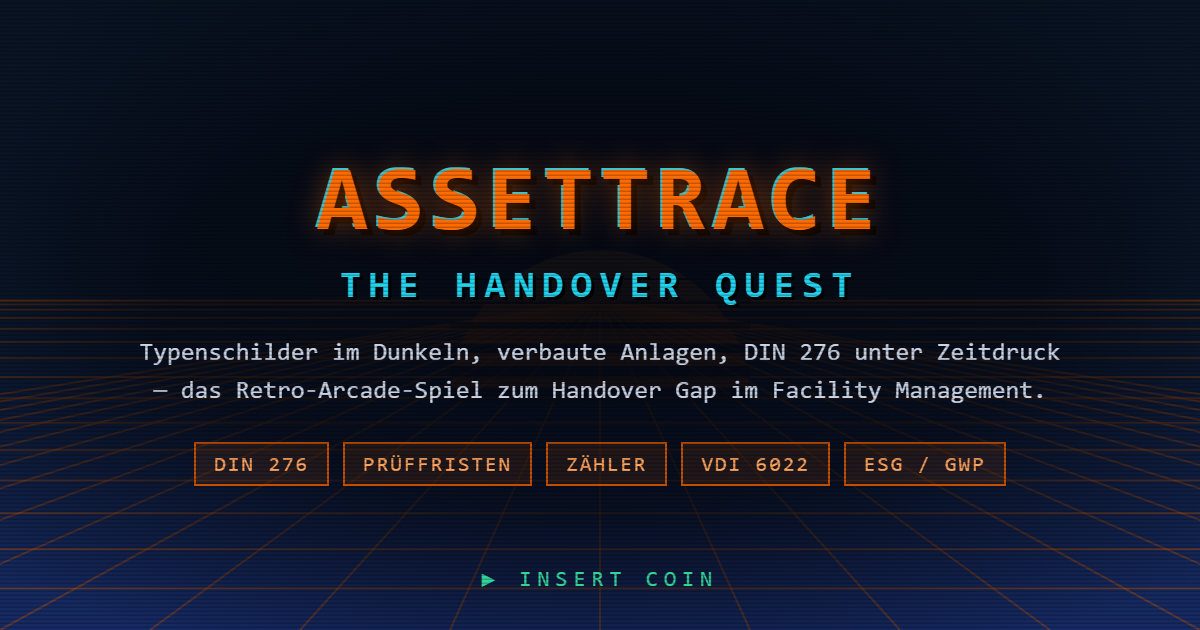
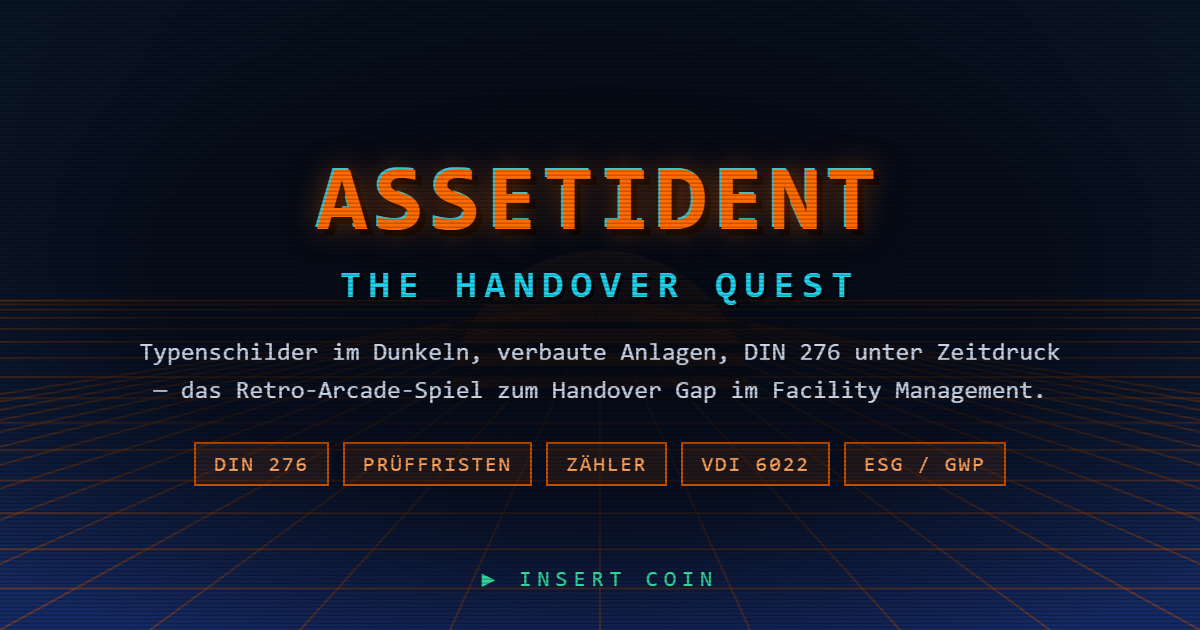
refactor: Marke durchgängig auf AssetIdent umstellen
Das Spiel hiess an jeder sichtbaren Stelle noch AssetTrace, das Repository
aber AssetIdent_Game. 75 Vorkommen in zehn Dateien angeglichen.

Umbenannt wurde alles, was Spieler oder Einbettende zu sehen bekommen:

- Titelbildschirm, Boss-Runde, Report und der CTA "ASSETIDENT LIVE ANSEHEN"
- Seitentitel, Meta-Beschreibung und die OpenGraph-/Twitter-Karte
- og-image.png neu gerendert — der Name steht dort als Grafik
- Docker: Image assetident/handover-quest, Service- und Containername

Und die öffentliche Schnittstelle, weil sie in README und embed.html
dokumentiert ist und Einbettende sie anfassen:

- window.ASSETTRACE_LANDING  -> window.ASSETIDENT_LANDING
- window.ASSETTRACE_API      -> window.ASSETIDENT_API
- window.assetTraceEvents    -> window.assetIdentEvents
- window.AssetTrace          -> window.AssetIdent
- <assettrace-game>          -> <assetident-game>
- CTA-Parameter at_rank      -> ai_rank

Ohne Kompatibilitäts-Aliasse: das Repo ist eine Stunde alt, nirgends
eingebettet, und Altlasten ab Tag eins mitzuschleppen lohnt nicht.

Nicht umbenannt sind die internen Bezeichner — CSS-Präfix .at-*, DOM-IDs
und der localStorage-Schluessel at_handover_hs_v2. Die sind nach aussen
unsichtbar; rund hundert Bezeichner ueber HTML, CSS und JS zu ziehen waere
reines Risiko ohne Gegenwert.

Geprueft: Smoke-Test (Prolog bis Boss inkl. Fehlerpfade) und
Geometrie-Test gruen, Titelbild und Report-CTA im Browser kontrolliert.

Changed region(s): [[0.4933, 0.2413, 0.74, 0.3619]]

diff --git a/embed.html b/embed.html
@@ -3,7 +3,7 @@
 <head>
   <meta charset="UTF-8" />
   <meta name="viewport" content="width=device-width, initial-scale=1.0" />
-  <title>AssetTrace Game — Embed Demo</title>
+  <title>AssetIdent Game — Embed Demo</title>
   <style>
     body {
       font-family: -apple-system, system-ui, sans-serif;
@@ -20,10 +20,10 @@
   </style>
 </head>
 <body>
-  <h1>&lt;assettrace-game&gt; Embed Demo</h1>
+  <h1>&lt;assetident-game&gt; Embed Demo</h1>
   <p class="note">
     This page demonstrates both supported embed methods for
-    <strong>AssetTrace: The Handover Quest</strong>. The game below runs in a
+    <strong>AssetIdent: The Handover Quest</strong>. The game below runs in a
     sandboxed iframe with UTM tracking passed through, just like a real CMS
     embed. The iframe and Web Component are <em>fully responsive</em>.
   </p>
@@ -35,7 +35,7 @@
   <div class="wrap">
     <iframe
       src="index.html?utm_source=demo&utm_medium=embed&utm_campaign=handover"
-      title="AssetTrace: The Handover Quest"
+      title="AssetIdent: The Handover Quest"
       loading="lazy"
       allow="autoplay; fullscreen"
       style="width:100%; height:480px; border:0; display:block; background:#000;"
@@ -47,14 +47,14 @@
   <h2 style="margin-top:32px">Method 2 — Web Component (optional)</h2>
   <p class="note">
     For a cleaner API, drop in the tiny loader below and use
-    <code>&lt;assettrace-game&gt;</code>. It reads <code>utm</code> attributes
+    <code>&lt;assetident-game&gt;</code>. It reads <code>utm</code> attributes
     and posts events back to the parent page (e.g. for your analytics).
   </p>
 
-  <!-- Loader turns <assettrace-game> into a managed iframe -->
+  <!-- Loader turns <assetident-game> into a managed iframe -->
   <script>
     (function () {
-      customElements.define("assettrace-game", class extends HTMLElement {
+      customElements.define("assetident-game", class extends HTMLElement {
         connectedCallback() {
           const src = this.getAttribute("src") || "index.html";
           const params = ["source", "medium", "campaign", "content", "term"]
@@ -64,15 +64,15 @@
           const url = src + (params ? "?" + params : "");
           const frame = document.createElement("iframe");
           frame.src = url;
-          frame.title = "AssetTrace: The Handover Quest";
+          frame.title = "AssetIdent: The Handover Quest";
           frame.loading = "lazy";
           frame.allow = "autoplay; fullscreen";
           frame.style.cssText = "width:100%;height:480px;border:0;display:block;background:#000;";
-          // relay game events (window.assetTraceEvents) to parent for analytics
+          // relay game events (window.assetIdentEvents) to parent for analytics
           frame.addEventListener("load", () => {
             try {
-              const arr = frame.contentWindow.assetTraceEvents || [];
-              console.log("[assettrace-game] events so far:", arr);
+              const arr = frame.contentWindow.assetIdentEvents || [];
+              console.log("[assetident-game] events so far:", arr);
             } catch (e) {}
           });
           this.appendChild(frame);
@@ -83,26 +83,26 @@
 
   <!-- This renders another full game instance via the component -->
   <div class="wrap">
-    <assettrace-game
+    <assetident-game
       src="index.html"
       utm-source="webflow"
       utm-medium="webcomponent"
       utm-campaign="handover">
-    </assettrace-game>
+    </assetident-game>
   </div>
 
   <h2 style="margin-top:32px">Embed Snippet (copy-paste)</h2>
   <pre>&lt;!-- Option A: iframe (recommended, universal) --&gt;
 &lt;iframe
   src="https://&lt;your-game-host&gt;/index.html?utm_source=linkedin&amp;utm_campaign=handover"
-  title="AssetTrace: The Handover Quest"
+  title="AssetIdent: The Handover Quest"
   loading="lazy" allow="autoplay; fullscreen"
   style="width:100%;max-width:960px;height:480px;border:0;"
   allowfullscreen&gt;&lt;/iframe&gt;
 
 &lt;!-- Option B: Web Component (cleaner API + event relay) --&gt;
 &lt;script&gt;
-customElements.define('assettrace-game', class extends HTMLElement{
+customElements.define('assetident-game', class extends HTMLElement{
   connectedCallback(){
     const s=this.getAttribute('src')||'index.html';
     const p=['source','medium','campaign'].filter(k=&gt;this.hasAttribute('utm-'+k))
@@ -114,8 +114,8 @@ customElements.define('assettrace-game', class extends HTMLElement{
   }
 });
 &lt;/script&gt;
-&lt;assettrace-game src="https://&lt;your-game-host&gt;/index.html"
-  utm-source="linkedin" utm-campaign="handover"&gt;&lt;/assettrace-game&gt;</pre>
+&lt;assetident-game src="https://&lt;your-game-host&gt;/index.html"
+  utm-source="linkedin" utm-campaign="handover"&gt;&lt;/assetident-game&gt;</pre>
 
   <p class="note" style="margin-top:24px">
     Replace <code>&lt;your-game-host&gt;</code> with your deployment URL

diff --git a/index.html b/index.html
@@ -3,35 +3,35 @@
 <head>
   <meta charset="UTF-8" />
   <meta name="viewport" content="width=device-width, initial-scale=1.0, maximum-scale=1.0, user-scalable=no" />
-  <meta name="description" content="AssetTrace: The Handover Quest - 80s Retro-Arcade zum Handover Gap im Facility Management. Typenschilder, Prüffristen, DIN 276, ESG - gegen die Uhr." />
-  <title>AssetTrace: The Handover Quest</title>
+  <meta name="description" content="AssetIdent: The Handover Quest - 80s Retro-Arcade zum Handover Gap im Facility Management. Typenschilder, Prüffristen, DIN 276, ESG - gegen die Uhr." />
+  <title>AssetIdent: The Handover Quest</title>
 
   <!-- ══════════════════════════════════════════════════════════════════════
        HIER EINTRAGEN, BEVOR DAS SPIEL ONLINE GEHT
        ──────────────────────────────────────────────────────────────────────
-       1. ASSETTRACE_LANDING  Ziel des "ASSETTRACE LIVE ANSEHEN"-Buttons im
+       1. ASSETIDENT_LANDING  Ziel des "ASSETIDENT LIVE ANSEHEN"-Buttons im
           Abschlussbildschirm. Das ist der einzige Conversion-Punkt des ganzen
           Spiels — steht hier die Beispiel-Domain, verpufft die Kampagne.
        2. OG_URL unten        die öffentliche Adresse des Spiels (für Vorschau-
           karten in LinkedIn/Slack/WhatsApp).
        ══════════════════════════════════════════════════════════════════════ -->
   <script>
-    window.ASSETTRACE_LANDING = "https://assettrace.example.com";  // ← ÄNDERN
+    window.ASSETIDENT_LANDING = "https://assetident.example.com";  // ← ÄNDERN
     // Optional: Analytics-Endpunkt, der alle Spielereignisse per POST bekommt.
-    // window.ASSETTRACE_API = "https://api.deine-domain.de/v1/game/events";
+    // window.ASSETIDENT_API = "https://api.deine-domain.de/v1/game/events";
   </script>
 
   <!-- Vorschaukarte beim Teilen (LinkedIn, Slack, WhatsApp, X) -->
   <meta property="og:type" content="website" />
-  <meta property="og:site_name" content="AssetTrace" />
-  <meta property="og:title" content="AssetTrace: The Handover Quest" />
+  <meta property="og:site_name" content="AssetIdent" />
+  <meta property="og:title" content="AssetIdent: The Handover Quest" />
   <meta property="og:description" content="Typenschilder im Dunkeln, verbaute Anlagen, DIN 276 unter Zeitdruck — das Retro-Arcade-Spiel zum Handover Gap im Facility Management." />
   <meta property="og:image" content="og-image.png" />
   <meta property="og:image:width" content="1200" />
   <meta property="og:image:height" content="630" />
   <meta property="og:locale" content="de_DE" />
   <meta name="twitter:card" content="summary_large_image" />
-  <meta name="twitter:title" content="AssetTrace: The Handover Quest" />
+  <meta name="twitter:title" content="AssetIdent: The Handover Quest" />
   <meta name="twitter:description" content="Schaffst du die Übergabe, bevor der Termin dich schafft? 3 Ebenen, 17 Anlagen, eine Uhr, die rückwärts läuft." />
   <meta name="twitter:image" content="og-image.png" />
   <!-- Favicon als Inline-SVG: keine zusätzliche Datei, kein zusätzlicher Request,
@@ -48,19 +48,19 @@
 </head>
 <body>
   <!--
-    AssetTrace: The Handover Quest  v2.0
+    AssetIdent: The Handover Quest  v2.0
     Embeddable, dependency-free 80s retro arcade game.
 
     URL params supported:
       ?utm_source=linkedin&utm_campaign=handover
       ?hs=0       -> reset local highscore
-      ?debug=1    -> console event log + window.AssetTrace._dev
+      ?debug=1    -> console event log + window.AssetIdent._dev
       ?api=<url>  -> POST analytics endpoint
   -->
 
   <div id="at-game-root">
     <div id="at-stage">
-      <canvas id="at-canvas" width="480" height="270" aria-label="AssetTrace The Handover Quest game"></canvas>
+      <canvas id="at-canvas" width="480" height="270" aria-label="AssetIdent The Handover Quest game"></canvas>
 
       <!-- CRT scanline + vignette overlay -->
       <div id="at-crt-overlay" aria-hidden="true"></div>

diff --git a/bundle.js b/bundle.js
@@ -1,5 +1,5 @@
 /* ============================================================================
-   AssetTrace: The Handover Quest — v2.0
+   AssetIdent: The Handover Quest — v2.0
    80s retro platformer that gamifies the FM "Handover Gap".
 
    v2.0 changes (P0 + P1):
@@ -151,7 +151,7 @@
       const v = params.get("utm_" + k);
       if (v) utm[k] = v;
     });
-    const apiBase = params.get("api") || (window.ASSETTRACE_API || "");
+    const apiBase = params.get("api") || (window.ASSETIDENT_API || "");
     const debug = params.get("debug") === "1";
     const sessionId = "at-" + Math.random().toString(36).slice(2, 10);
 
@@ -170,9 +170,9 @@
           }).catch(() => {});
         } catch (e) { /* ignore */ }
       }
-      window.assetTraceEvents = window.assetTraceEvents || [];
-      window.assetTraceEvents.push({ event, payload });
-      if (debug) console.log("[AssetTrace]", event, payload);
+      window.assetIdentEvents = window.assetIdentEvents || [];
+      window.assetIdentEvents.push({ event, payload });
+      if (debug) console.log("[AssetIdent]", event, payload);
       const cb = window._atCb && window._atCb[event];
       if (cb) { try { cb(payload); } catch (e) { /* ignore */ } }
     }
@@ -2675,7 +2675,7 @@
       ? hs.map((h, i) => `<div><span class="at-rank">${i + 1}.</span>${esc(h.initials)}<span class="at-badge at-badge--${h.rank || "D"}">${esc(h.rank || "-")}</span><span class="at-sc">${h.score}</span></div>`).join("")
       : `<div class="at-dim">--- keine einträge ---</div>`;
     showOverlay(`
-      <h1>ASSETTRACE</h1>
+      <h1>ASSETIDENT</h1>
       <h2>THE HANDOVER QUEST</h2>
       <p class="at-dim">// FM DATA CAPTURE PROTOCOL v${CFG.VERSION} //</p>
       <p>3 Ebenen, ${TOTAL_ASSETS} Anlagen, ein Übergabetermin.</p>
@@ -3053,7 +3053,7 @@
       <div id="at-hs-area"></div>
       </div>
       <div class="at-rep-foot">
-        <a class="at-btn" href="${landingURL()}" target="_blank" rel="noopener">ASSETTRACE LIVE ANSEHEN &raquo;</a>
+        <a class="at-btn" href="${landingURL()}" target="_blank" rel="noopener">ASSETIDENT LIVE ANSEHEN &raquo;</a>
         <button class="at-btn at-btn--ghost" id="at-replay">NOCHMAL</button>
         ${failed ? `<button class="at-btn at-btn--ghost" id="at-retry">EBENE WIEDERHOLEN</button>` : ""}
         <button class="at-btn at-btn--ghost at-btn--sm" id="at-page1">&laquo; BEFUND</button>
@@ -3097,11 +3097,11 @@
   }
 
   function landingURL() {
-    const base = window.ASSETTRACE_LANDING || "https://assettrace.example.com";
+    const base = window.ASSETIDENT_LANDING || "https://assetident.example.com";
     const q = [];
     if (Tracking.utm.source) q.push("utm_source=" + encodeURIComponent(Tracking.utm.source));
     if (Tracking.utm.campaign) q.push("utm_campaign=" + encodeURIComponent(Tracking.utm.campaign));
-    q.push("at_rank=" + (Game.report ? Game.report.rank : "-"));
+    q.push("ai_rank=" + (Game.report ? Game.report.rank : "-"));
     return base + (base.indexOf("?") >= 0 ? "&" : "?") + q.join("&");
   }
 
@@ -3261,7 +3261,7 @@
     setStatus("SYSTEM READY");
     requestAnimationFrame(frame);
 
-    window.AssetTrace = {
+    window.AssetIdent = {
       version: CFG.VERSION,
       start: () => startRun(true),
       startNoPrologue: () => startRun(false),

diff --git a/style.css b/style.css
@@ -1,5 +1,5 @@
 /* ============================================================
-   AssetTrace: The Handover Quest  -  Retro 80s CRT styling
+   AssetIdent: The Handover Quest  -  Retro 80s CRT styling
    Palette: #0B192C / #1E3A8A (deep blues), #FF6B00 (orange)
    ============================================================ */
 

diff --git a/README.md b/README.md
@@ -1,6 +1,6 @@
-# AssetTrace: The Handover Quest 🕹  v2.0
+# AssetIdent: The Handover Quest 🕹  v2.0
 
-Ein **80er-Retro-Arcade-Spiel** im Browser für AssetTrace. Es macht den realen
+Ein **80er-Retro-Arcade-Spiel** im Browser für AssetIdent. Es macht den realen
 **Handover Gap** im Facility Management spielbar: der Spieler ist Tech Inspector,
 erfasst Anlagen gegen einen laufenden Übergabetermin und verwandelt visuelle
 Daten in strukturierte, CAFM-fähige FM-Daten.
@@ -9,7 +9,7 @@ Daten in strukturierte, CAFM-fähige FM-Daten.
 - **Keine externen Assets** — Pixelgrafik und Chiptune werden zur Laufzeit erzeugt.
 - **~130 KB gesamt.** Lädt sofort, läuft offline, überall einbettbar.
 - **Desktop + Mobile** (Touch-Steuerung wird automatisch erkannt).
-- **Einbettbar** per `<iframe>` oder `<assettrace-game>` Web Component in jedes CMS.
+- **Einbettbar** per `<iframe>` oder `<assetident-game>` Web Component in jedes CMS.
 
 ## Was v2.0 gegenüber v1 ändert
 
@@ -36,7 +36,7 @@ nichts. v2.0 macht daraus ein Spiel:
 ## 1. Project structure
 
 ```
-AssetTrace_Game/
+AssetIdent_Game/
 ├── index.html          # Game shell: canvas, HUD, overlays, touch controls
 ├── style.css           # 80s CRT styling (scanlines, palette, retro UI)
 ├── bundle.js           # Full game: engine + audio synth + procedural art + mechanics
@@ -181,10 +181,10 @@ docker compose up -d --build
 # → http://localhost:8080
 
 # Or a one-shot docker run
-docker build -t assettrace/handover-quest:2.0.0 .
-docker run -d -p 8080:8080 --name assettrace-game --read-only --tmpfs /tmp \
+docker build -t assetident/handover-quest:2.0.0 .
+docker run -d -p 8080:8080 --name assetident-game --read-only --tmpfs /tmp \
   --security-opt no-new-privileges:true --memory=128m \
-  assettrace/handover-quest:2.0.0
+  assetident/handover-quest:2.0.0
 ```
 
 ### Vor dem ersten Deploy
@@ -231,7 +231,7 @@ CMS that allows iframes. See [`embed.html`](embed.html) for a live demo.
 ```html
 <iframe
   src="https://YOUR-GAME-HOST/index.html?utm_source=linkedin&utm_campaign=handover"
-  title="AssetTrace: The Handover Quest"
+  title="AssetIdent: The Handover Quest"
   loading="lazy" allow="autoplay; fullscreen"
   style="width:100%;max-width:960px;height:480px;border:0;background:#000;"
   allowfullscreen></iframe>
@@ -244,7 +244,7 @@ out of the critical path. Recommended iframe height: **480 px** (or any 16:9 rat
 
 ```html
 <script>
-customElements.define('assettrace-game', class extends HTMLElement {
+customElements.define('assetident-game', class extends HTMLElement {
   connectedCallback() {
     const src = this.getAttribute('src') || 'index.html';
     const p = ['source','medium','campaign','content','term']
@@ -260,11 +260,11 @@ customElements.define('assettrace-game', class extends HTMLElement {
 });
 </script>
 
-<assettrace-game
+<assetident-game
   src="https://YOUR-GAME-HOST/index.html"
   utm-source="linkedin"
   utm-campaign="handover">
-</assettrace-game>
+</assetident-game>
 ```
 
 ### WordPress specific
@@ -286,8 +286,8 @@ https://YOUR-GAME-HOST/index.html?utm_source=linkedin&utm_medium=social&utm_camp
 ### Events emitted
 Each significant action fires an event three ways (best-effort, non-blocking):
 
-1. **`navigator.sendBeacon`** / `fetch` POST to `window.ASSETTRACE_API` (set before the script loads — see below) or `?api=<url>`.
-2. **`window.assetTraceEvents`** array inside the iframe (parent can read it via `contentWindow`).
+1. **`navigator.sendBeacon`** / `fetch` POST to `window.ASSETIDENT_API` (set before the script loads — see below) or `?api=<url>`.
+2. **`window.assetIdentEvents`** array inside the iframe (parent can read it via `contentWindow`).
 3. Logged to the console when running in `?debug=1`.
 
 | Event | Wann | Payload |
@@ -312,7 +312,7 @@ und `run_complete.rank` als Funnel-Stufe.
 Set the endpoint globally before `bundle.js` loads (e.g. in `index.html`):
 
 ```html
-<script>window.ASSETTRACE_API = "https://api.yourdomain.com/v1/game/events";</script>
+<script>window.ASSETIDENT_API = "https://api.yourdomain.com/v1/game/events";</script>
 <script src="bundle.js"></script>
 ```
 
@@ -323,21 +323,21 @@ the raw body). For richer server-side handling, drop `mode: "no-cors"` in `bundl
 
 ### CTA-Landing-URL setzen — PFLICHT VOR DEM LIVEGANG
 
-Der CTA „ASSETTRACE LIVE ANSEHEN" auf Report-Seite 2 zeigt auf
-`window.ASSETTRACE_LANDING`. Vorgabe ist die **Beispiel-Domain**
-`https://assettrace.example.com` und damit ein toter Link. Angehängt werden
-`utm_source`, `utm_campaign` und `at_rank=<Rang>`, sodass die Attribution bis zur
+Der CTA „ASSETIDENT LIVE ANSEHEN" auf Report-Seite 2 zeigt auf
+`window.ASSETIDENT_LANDING`. Vorgabe ist die **Beispiel-Domain**
+`https://assetident.example.com` und damit ein toter Link. Angehängt werden
+`utm_source`, `utm_campaign` und `ai_rank=<Rang>`, sodass die Attribution bis zur
 Anmeldung durchläuft — inklusive der Information, wie gut der Besucher gespielt hat.
 
 Die Variable steht im obersten `<script>`-Block von `index.html`:
 
 ```html
-<script>window.ASSETTRACE_LANDING = "https://deine-landingpage.de";</script>
+<script>window.ASSETIDENT_LANDING = "https://deine-landingpage.de";</script>
 ```
 
 Warum dort und nicht als Umgebungsvariable: Der Container liefert ausschließlich
 statische Dateien aus, niemand ersetzt zur Laufzeit etwas im HTML. Eine
-`ASSETTRACE_LANDING`-Variable im Compose — so stand es hier früher — ist wirkungslos.
+`ASSETIDENT_LANDING`-Variable im Compose — so stand es hier früher — ist wirkungslos.
 
 ---
 
@@ -445,7 +445,7 @@ schiefgegangen und wurden per Rechnung gefunden, nicht per Auge:
 ### Debug-Modus
 
 `?debug=1` loggt alle Events in die Konsole und legt Testhandles offen:
-`window.AssetTrace._dev = { Game, CFG, LEVELS, beginLevel, startPrologue, endRun }`.
+`window.AssetIdent._dev = { Game, CFG, LEVELS, beginLevel, startPrologue, endRun }`.
 Damit lässt sich jede Szene direkt anspringen (z. B. für Screenshots) oder eine
 Ebene ohne Vorlauf starten.
 
@@ -481,7 +481,7 @@ mobile browsers. Requires `AudioContext` (universal since 2020) and `canvas` (un
 
 ## 10. License & credits
 
-MIT License — freie Verwendung für die AssetTrace-Kampagne.
+MIT License — freie Verwendung für die AssetIdent-Kampagne.
 
 Konzept: der **Handover Gap** im Facility Management als Arcade-Spiel — unlesbare
 Typenschilder, fehlendes Licht, verbaute Anlagen, Dampf, Instandhaltungsstau und
